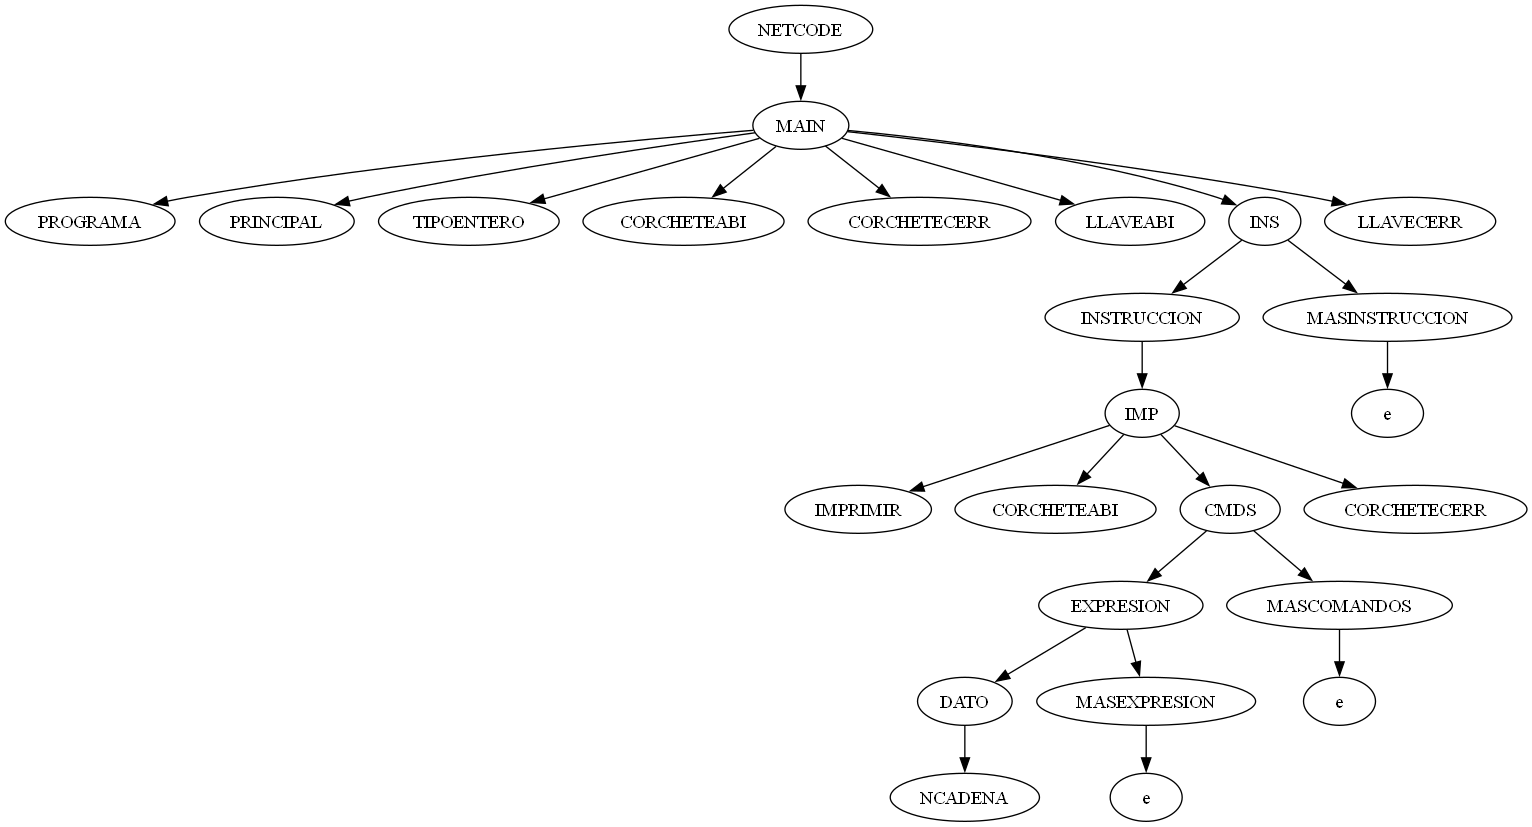
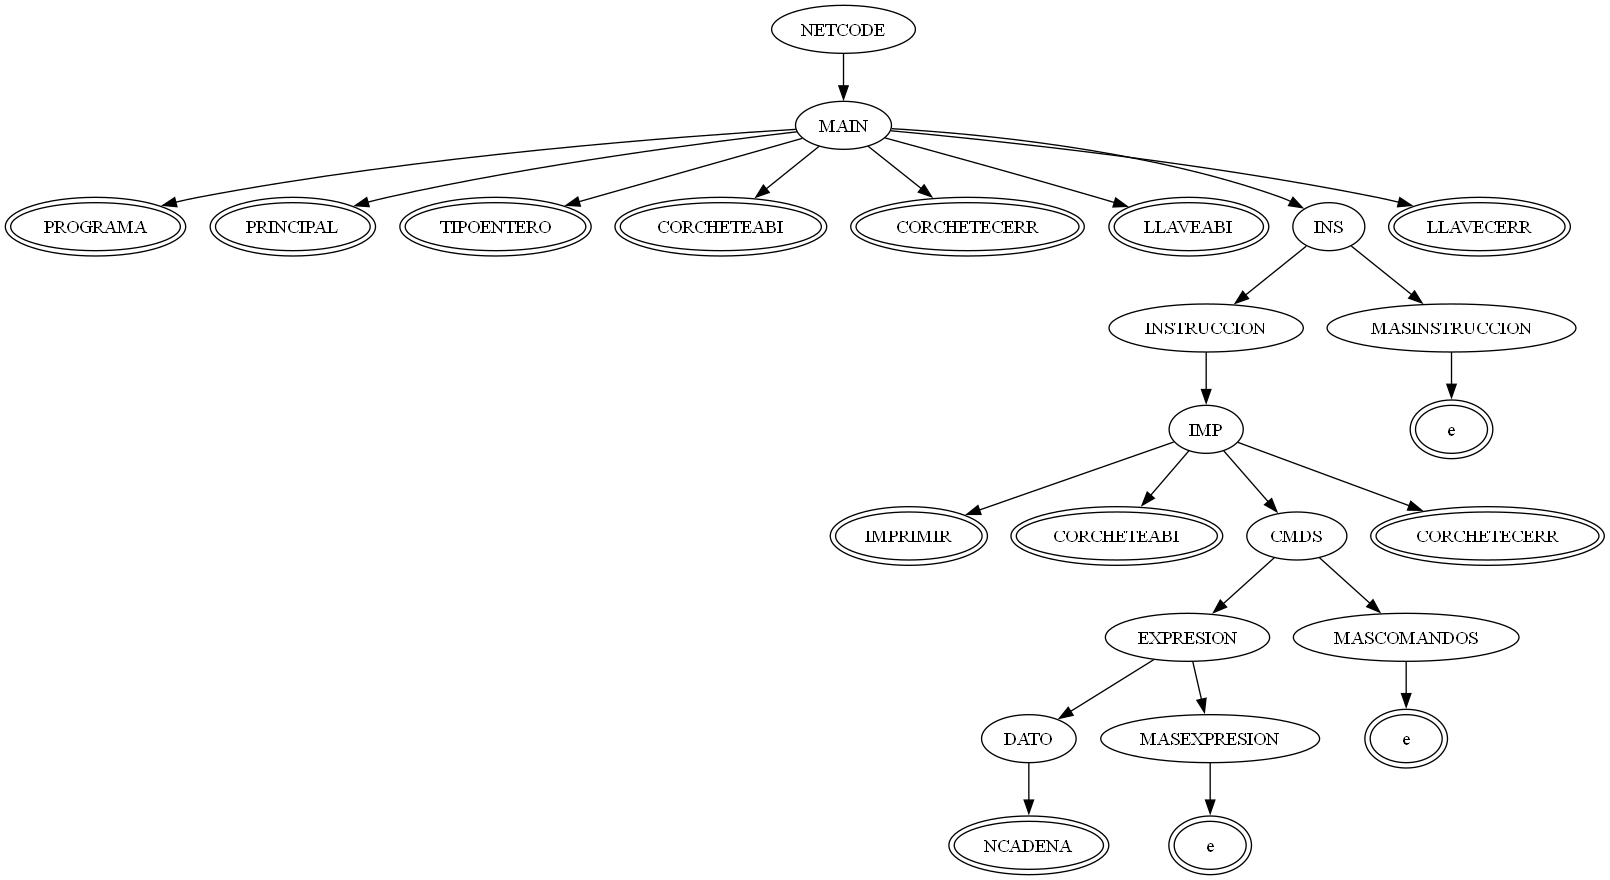
UPDATE

Changed region(s): [[0.0, 0.0, 1.0, 0.6651], [0.5829, 0.6651, 0.951, 0.9976]]

diff --git a/netcode/functions_sintactic.py b/netcode/functions_sintactic.py
@@ -152,6 +152,28 @@ def arbolSintactico(raiz):
     generar_nodos(raiz)
     return graph
 
+def arbolSintacticoContorno(raiz):
+    graph = Digraph()
+    def generar_nodos(node):
+        label = f"{node.simbolo_lexer}"
+        if node.line is not None:
+            label += f"\nline: {node.line}"
+        if node.column is not None:
+            label += f"\ncol: {node.column}"
+        if node.valor is not None:
+            label += f"\nvalor: {node.valor}"
+        # Si es una hoja (no tiene hijos), le aplicamos doble contorno
+        if not node.children:
+            graph.node(str(node.id), label, style="filled", fillcolor='white', peripheries='2')
+        else:
+            graph.node(str(node.id), label, style="filled", fillcolor='white')
+        if node.padre:
+            graph.edge(str(node.padre.id), str(node.id))
+        for child in node.children:
+            generar_nodos(child)
+    generar_nodos(raiz)
+    return graph
+
 def parser_sintactico_ll1(listtokens, table_ll1, inicial):
     global count
     error = False

diff --git a/netcode/sintactic.py b/netcode/sintactic.py
@@ -3,6 +3,7 @@ from lexic import listtokens
 import os
 from functions_sintactic import generate_table_ll1
 from functions_sintactic import arbolSintactico
+from functions_sintactic import arbolSintacticoContorno
 from functions_sintactic import parser_sintactico_ll1
 
 directory2 = os.path.dirname(__file__)
@@ -31,7 +32,8 @@ success, parse_tree_root = parser_sintactico_ll1(listtokens, table_ll1, simboloi
 if success:
     output_folder = 'tree'
     if not os.path.exists(output_folder): os.makedirs(output_folder)
-    graph = arbolSintactico(parse_tree_root)
+    graph = arbolSintacticoContorno(parse_tree_root)
+    #graph = arbolSintactico(parse_tree_root)
     output_pdf_path = os.path.join(output_folder, 'tree_sintactic_hola_mundo') 
     graph.render(output_pdf_path, format='png', view=True)
 else:
